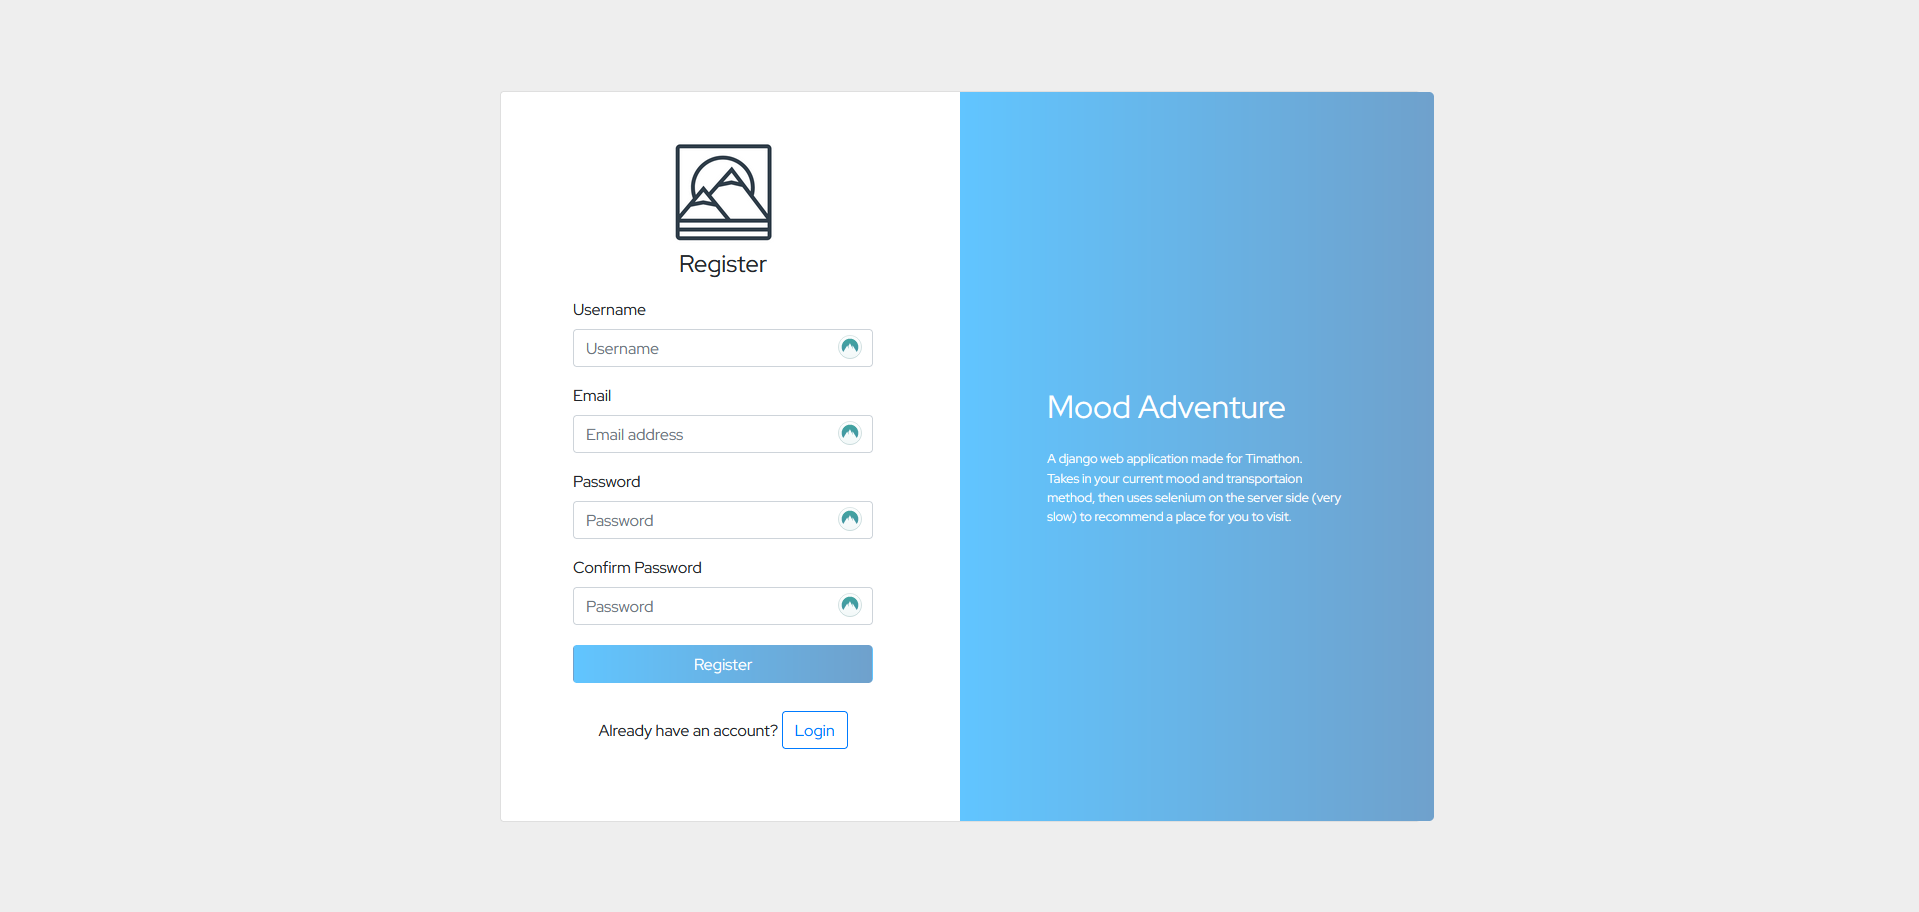
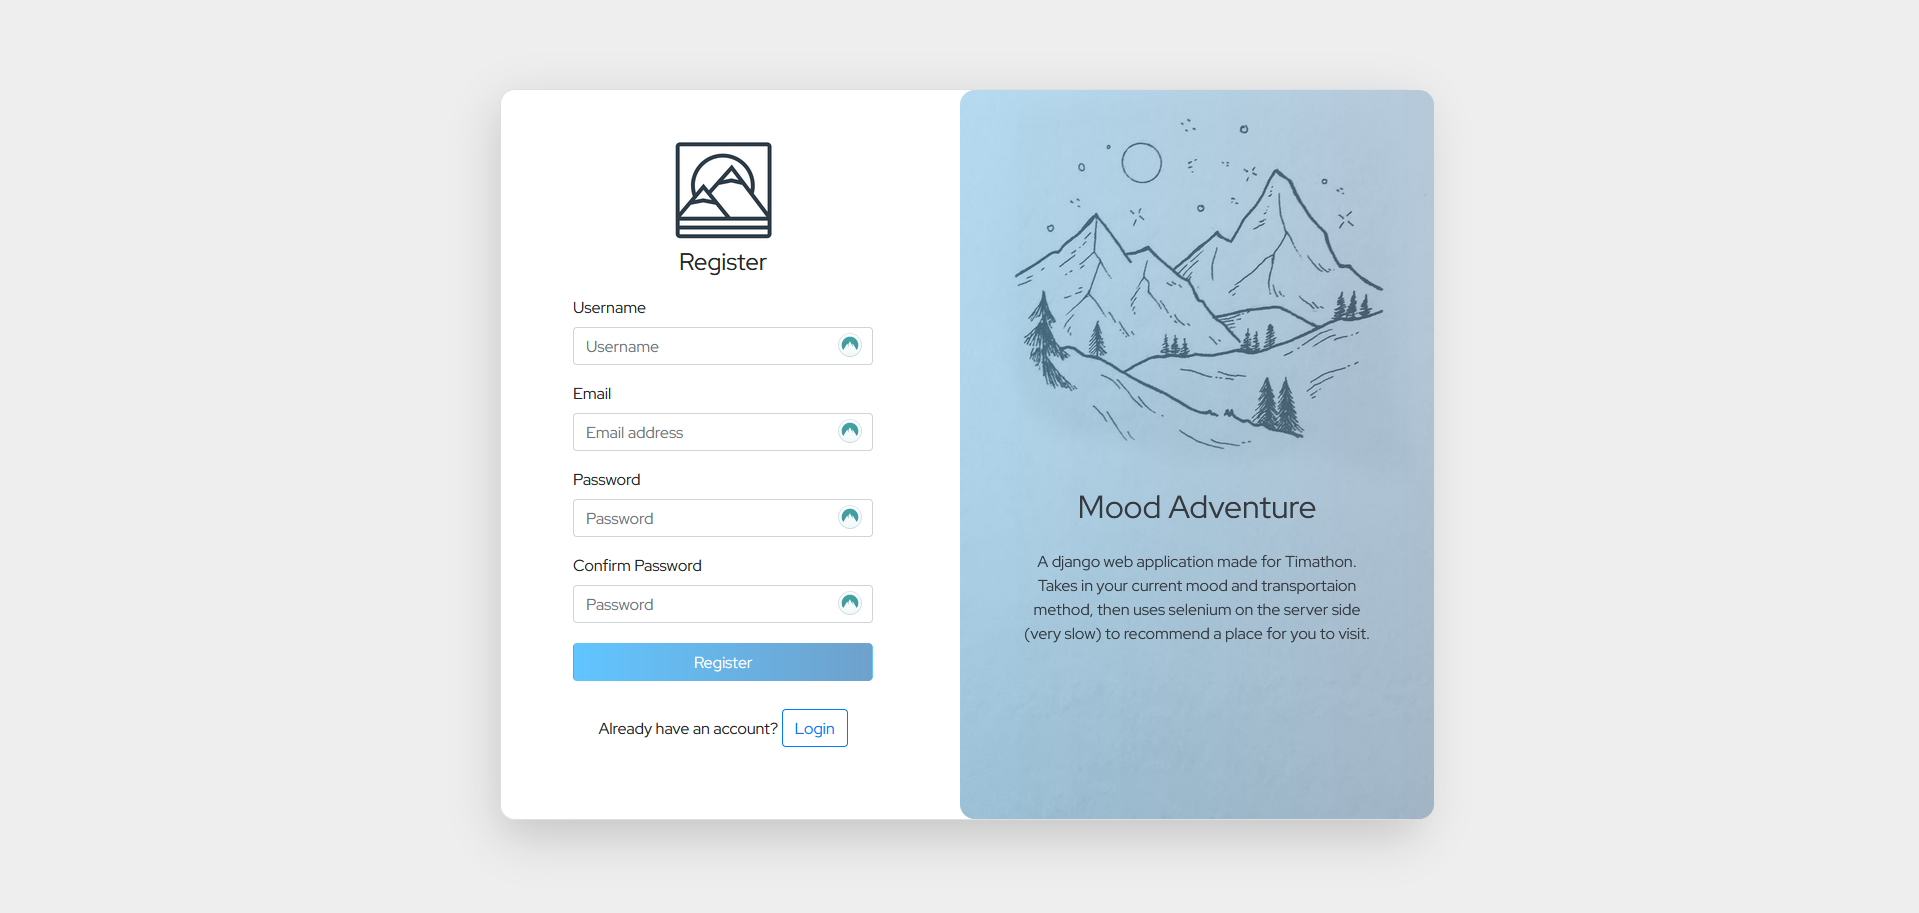
Login/Register Page UI changes

diff --git a/authentication/templates/authentication/login.html b/authentication/templates/authentication/login.html
@@ -11,11 +11,11 @@
             {{message}}
         </div>
     {%endif%}
-        <div class="col-xl-10">
-          <div class="card rounded-3 text-black">
-            <div class="row g-0">
-              <div class="col-lg-6">
-                <div class="card-body p-md-5 mx-md-4">
+        <div class="col-xl-10" >
+          <div class="card rounded-3 text-black shadow-lg" style="border-radius: 15px;">
+            <div class="row g-0 ">
+              <div class="col-lg-6 " >
+                <div class="card-body p-md-5 mx-md-4 " >
   
                   <div class="text-center">
                     <img src="{% static 'authentication/smol.png' %}"
@@ -51,12 +51,13 @@
                   </form>
   
                 </div>
-              </div>
-              <div class="col-lg-6 d-flex align-items-center gradient-custom-2">
-                <div class="text-white px-3 py-4 p-md-5 mx-md-4">
-                  <h2 class="mb-4">Mood Adventure</h2>
-                  <p class="small mb-0">A django web application made for Timathon.</p>
-                  <p class="small mb-0">Takes in your current mood and transportaion method, then uses selenium on the server side (very slow) to recommend a place for you to visit.</p>
+              </div> 
+              <div class="col-lg-6 d-flex align-items-center" id = "loginbg">
+                <div class="rounded" id = "loginbg1"></div>
+                <div class="text-white px-3 py-4 p-md-4 mx-md-4" id = "text">
+                  <h2 class="mb-4 text-dark">Mood Adventure</h2>
+                  <p class=" mb-0 text-dark">A django web application made for Timathon.</p>
+                  <p class=" mb-0 text-dark">Takes in your current mood and transportaion method, then uses selenium on the server side (very slow) to recommend a place for you to visit.</p>
                 </div>
               </div>
             </div>

diff --git a/authentication/templates/authentication/register.html b/authentication/templates/authentication/register.html
@@ -13,7 +13,7 @@
               </div>
           {%endif%}
         <div class="col-xl-10">
-          <div class="card rounded-3 text-black">
+          <div class="card rounded-3 text-black shadow-lg" style="border-radius: 15px;">
             <div class="row g-0">
                 
               <div class="col-lg-6">
@@ -65,13 +65,14 @@
   
                 </div>
               </div>
-              <div class="col-lg-6 d-flex align-items-center gradient-custom-2">
-                <div class="text-white px-3 py-4 p-md-5 mx-md-4">
-                  <h2 class="mb-4">Mood Adventure</h2>
-                  <p class="small mb-0">A django web application made for Timathon.</p>
-                  <p class="small mb-0">Takes in your current mood and transportaion method, then uses selenium on the server side (very slow) to recommend a place for you to visit.</p>
+              <div class="col-lg-6 d-flex align-items-center" id = "loginbg">
+                <div class="rounded" id = "loginbg1"></div>
+                <div class="text-white px-3 py-4 p-md-4 mx-md-4" id = "text">
+                  <h2 class="mb-4 text-dark">Mood Adventure</h2>
+                  <p class=" mb-0 text-dark">A django web application made for Timathon.</p>
+                  <p class=" mb-0 text-dark">Takes in your current mood and transportaion method, then uses selenium on the server side (very slow) to recommend a place for you to visit.</p>
                 </div>
-                </div>
+              </div>
             </div>
           </div>
         </div>

diff --git a/mapper/templates/mapper/index.html b/mapper/templates/mapper/index.html
@@ -119,7 +119,7 @@
             let coords{{rec.id}} = [];
     
             // marker for the recommendation
-            new mapboxgl.Marker().setLngLat(['{{rec.location.x}}', '{{rec.location.y}}']).addTo(map);
+            new mapboxgl.Marker({ "color": "#d16262" }).setLngLat(['{{rec.location.x}}', '{{rec.location.y}}']).addTo(map);
 
             // fetching the coordinates (route) that lead to the recommendation's location
             fetch('https://api.mapbox.com/directions/v5/mapbox/driving/{{long}}%2C{{lat}}%3B{{rec.location.x}}%2C{{rec.location.y}}?alternatives=true&geometries=geojson&language=en&overview=simplified&steps=true&access_token=pk.eyJ1IjoiaGFtYWRhYWEiLCJhIjoiY2wxcDlwenRmMTh1azNibzNheG5oeWc4ZSJ9.pvYNBp4Vgp0TiG51e6X8uw')
@@ -156,7 +156,7 @@
                         'line-cap': 'round'
                     },
                     'paint': {
-                        'line-color': '#ffc0cb',
+                        'line-color': '#17A2B8',
                         'line-width': 8
                     }
                 });

diff --git a/authentication/static/authentication/style.css b/authentication/static/authentication/style.css
@@ -98,6 +98,37 @@ body { margin: 0; padding: 0; }
     align-self: baseline;
 }
 
+#loginbg1 {
+        position: absolute;
+        top: 0;
+        right: 0;
+        color: black;
+        display: block;
+        height: 100%;
+        width: 100%;
+        background: linear-gradient(to left, #6fa1cc60, #61c5ff60);
+        z-index: 1;
+}
+
+#loginbg {
+    background-image: url("loginbg.png");
+    background-size: cover;
+    background-repeat: no-repeat;
+    background-position: center;
+    /* height: 100vh; */
+    width: 100%;
+    /* position: relative; */
+    z-index: 0;
+    overflow: hidden;
+    border-radius: 15px;
+}
+
+#text {
+    transform: translateY(7rem);
+    z-index: 2;
+    text-align: center;
+}
+
 #mountains {
     position: fixed;
     right: 0;

diff --git a/mapper/templates/mapper/previous.html b/mapper/templates/mapper/previous.html
@@ -119,7 +119,7 @@
         {% for rec in recommendations %}
 
             // marker for each recommendation
-            new mapboxgl.Marker().setLngLat(['{{rec.location.x}}', '{{rec.location.y}}']).addTo(map);
+            new mapboxgl.Marker({ "color": "#d16262" }).setLngLat(['{{rec.location.x}}', '{{rec.location.y}}']).addTo(map);
 
             // to store the set of coordinates (route) that lead to the recommendations' locations
             let coords{{rec.id}} = [];
@@ -161,7 +161,7 @@
                     'line-cap': 'round',
                     },
                     'paint': {
-                    'line-color': '#ffc0cb',
+                    'line-color': '#17A2B8',
                     'line-width': 8
                     }
                 });
